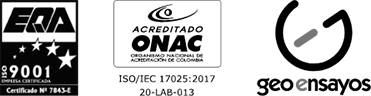
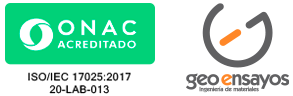
actualizacion certificados y slider

diff --git a/components/Icons.js b/components/Icons.js
@@ -211,3 +211,17 @@ export const IconSupervision = () => {
         </svg>
     )
 }
+
+export const OnacCertificate = () => {
+    return(
+        <svg xmlns="http://www.w3.org/2000/svg" viewBox="0 0 240.75 147.1">
+            <g id="a3297c2f-a7ae-4428-b331-d765763695de" data-name="Capa 2">
+                <g id="b01ddd35-47ef-4251-b64f-2eff42bcfe24" data-name="Capa 1">
+                    <path d="M0,8.78V90.94a8.78,8.78,0,0,0,8.78,8.77H232a8.78,8.78,0,0,0,8.78-8.78V8.78A8.78,8.78,0,0,0,232,0H8.78A8.78,8.78,0,0,0,0,8.78Z" fill="#26d07c" fill-rule="evenodd"/>
+                    <path d="M48.27,67.28c-18.88,4.63-28.51-9.79-23.76-24.47C31.07,22.54,61.74,18,73.65,38.34,55.77,22.38,25,43.74,48.27,67.28Zm-19.68-1.4C40.86,86.11,73,77.64,77,56.12c1.46-7.77-3-26.41-24.85-20.25C71.47,51.91,51.62,81.27,28.59,65.88Zm77.72-25.82a8,8,0,1,0-8,7.9,8,8,0,0,0,8-7.9m5.08,0a13.05,13.05,0,0,1-26.09,0,13.05,13.05,0,0,1,26.09,0M144.63,27.6V52.26H142.2L127.63,36.73V52.26h-4.94V27.6h2.42l14.53,15.53V27.6Zm19.2,15.49h7.39l-3.71-8.15ZM173,47.26H162.05l-2.18,5h-5.25L166.29,27.6h2.47l11.7,24.66h-5.25Zm34-2.65A7.75,7.75,0,0,1,192.91,40,7.75,7.75,0,0,1,207,35.39l3.86-3.28a13.14,13.14,0,0,0-10.13-4.72,12.59,12.59,0,1,0,0,25.18,13.11,13.11,0,0,0,10.13-4.68L207,44.61M87.05,73.45l.9-2.59h5L94,73.45h3.14l-5-12.21H89L84.08,73.45Zm1.67-4.64,1.4-3.9c0-.1.09-.31.16-.63s.14-.67.22-1.06c.07.41.14.76.2,1s.12.48.16.6l1.45,4Zm21-7a9.3,9.3,0,0,0-1.93-.64,9.71,9.71,0,0,0-2-.21,7.33,7.33,0,0,0-5.13,1.81,6.31,6.31,0,0,0,0,9.2,7.21,7.21,0,0,0,5.07,1.82,8.51,8.51,0,0,0,2-.24,8,8,0,0,0,1.85-.74l0-2.68a5.79,5.79,0,0,1-1.79,1.07,6.09,6.09,0,0,1-2.08.35,4.19,4.19,0,0,1-3.11-1.13,4.64,4.64,0,0,1,.09-6.19,4.57,4.57,0,0,1,3.29-1.17,5.37,5.37,0,0,1,1.89.33,5.9,5.9,0,0,1,1.72,1Zm9.33,6.1a3.17,3.17,0,0,0,2.07-1.05A3.08,3.08,0,0,0,122,64.7a3,3,0,0,0-1.18-2.6,6,6,0,0,0-3.53-.86h-4V73.45h2.77v-5.7l3.4,5.7h3.18Zm-3-4.66h.41a4.39,4.39,0,0,1,2.18.37,1.44,1.44,0,0,1,.58,1.28,1.32,1.32,0,0,1-.54,1.21,4.67,4.67,0,0,1-2.22.35h-.41ZM133,73.45V71.23H128.1V68.17H133V66H128.1V63.44H133v-2.2h-7.61V73.45Zm6.55,0h1a14.62,14.62,0,0,0,3.16-.26,6,6,0,0,0,2-.86,5.4,5.4,0,0,0,1.81-2.08,6.42,6.42,0,0,0,.62-2.88,6.35,6.35,0,0,0-.61-2.85,5.27,5.27,0,0,0-1.78-2.09,5.93,5.93,0,0,0-2.11-.91,14.87,14.87,0,0,0-3.28-.28h-3.53V73.45Zm0-10H141a4.48,4.48,0,0,1,3.17.94,3.9,3.9,0,0,1,1,3,3.92,3.92,0,0,1-1,3,4.53,4.53,0,0,1-3.17.93H139.5Zm14.74,10V61.24h-2.77V73.45Zm12-10V61.24h-9.1v2.22h3.16v10h2.78v-10Zm3.32,10,.9-2.59h5l1.05,2.59h3.14l-5-12.21h-3.16L166.6,73.45Zm1.68-4.64,1.39-3.9a5.26,5.26,0,0,0,.16-.63c.07-.31.15-.67.22-1.06.07.41.14.76.21,1s.11.48.15.6l1.45,4Zm13.61,4.64h1a14.62,14.62,0,0,0,3.16-.26,6.12,6.12,0,0,0,2-.86,5.4,5.4,0,0,0,1.81-2.08,7,7,0,0,0,0-5.73A5.35,5.35,0,0,0,191,62.43a6,6,0,0,0-2.11-.91,15,15,0,0,0-3.29-.28H182.1V73.45Zm0-10h1.54a4.48,4.48,0,0,1,3.17.94,3.9,3.9,0,0,1,1,3,3.92,3.92,0,0,1-1,3,4.53,4.53,0,0,1-3.17.93h-1.54Zm24.66,1.44a6.24,6.24,0,0,0-1.5-2.06,7.18,7.18,0,0,0-2.25-1.38,7.36,7.36,0,0,0-5.28,0,7.07,7.07,0,0,0-2.25,1.38,6.27,6.27,0,0,0-1.51,2.06,6.19,6.19,0,0,0,.14,5.22,6.3,6.3,0,0,0,1.87,2.19,7.51,7.51,0,0,0,2.08,1.09,7.37,7.37,0,0,0,2.32.38A7.35,7.35,0,0,0,208,71.9a6,6,0,0,0,1.49-2.05,6.2,6.2,0,0,0,0-4.95Zm-9.31,5.4a4.31,4.31,0,0,1,0-5.85,4.17,4.17,0,0,1,5.81,0,4.3,4.3,0,0,1,0,5.84,4.26,4.26,0,0,1-5.83,0Z" fill="#fff" fill-rule="evenodd"/>
+                    <path d="M39.49,126.5H37.87V114.33h1.62Zm8,.21a5.57,5.57,0,0,1-3.85-1.16,4,4,0,0,1-1.34-3h1.55a2.48,2.48,0,0,0,1.14,2,4.32,4.32,0,0,0,2.43.65,3.85,3.85,0,0,0,2.18-.55,1.74,1.74,0,0,0,.83-1.51,1.56,1.56,0,0,0-.86-1.47,12.7,12.7,0,0,0-2.94-.9,6.72,6.72,0,0,1-3-1.23,2.65,2.65,0,0,1-.91-2.1A3,3,0,0,1,44,115.07a4.86,4.86,0,0,1,3.14-.95,5.34,5.34,0,0,1,3.32,1,3.36,3.36,0,0,1,1.33,2.69H50.18c-.17-1.47-1.17-2.2-3-2.2a3.64,3.64,0,0,0-2.08.5,1.58,1.58,0,0,0-.74,1.35,1.25,1.25,0,0,0,.6,1.14,7.32,7.32,0,0,0,2.21.74,20.18,20.18,0,0,1,2.58.71,4,4,0,0,1,1.63,1.08,2.77,2.77,0,0,1,.69,2,3.26,3.26,0,0,1-1.25,2.61A5,5,0,0,1,47.53,126.71Zm12.56-12.59a5.48,5.48,0,0,1,4.18,1.73,7.21,7.21,0,0,1,0,9.13,5.93,5.93,0,0,1-8.38,0,7.19,7.19,0,0,1,0-9.12A5.53,5.53,0,0,1,60.09,114.12Zm0,11.21a3.84,3.84,0,0,0,3-1.3,6.23,6.23,0,0,0,0-7.24,3.8,3.8,0,0,0-3-1.29,3.87,3.87,0,0,0-3,1.29,6.16,6.16,0,0,0,0,7.24A3.88,3.88,0,0,0,60.07,125.33Zm11.88-11L68.43,126.5h-1.2l3.52-12.17Zm3.72,12.17H74.05V114.33h1.62Zm12.52,0H79.12V114.33h8.79v1.44H80.73v3.72h6.72v1.45H80.73v4.11h7.46Zm7.91.21A5.3,5.3,0,0,1,92,125a7.63,7.63,0,0,1,0-9.19,5.3,5.3,0,0,1,4.12-1.7,5.42,5.42,0,0,1,3.38,1.07,3.94,3.94,0,0,1,1.57,2.82H99.39a2.48,2.48,0,0,0-1-1.83,3.69,3.69,0,0,0-2.27-.68,3.63,3.63,0,0,0-2.93,1.27,6.7,6.7,0,0,0,0,7.28,3.59,3.59,0,0,0,2.91,1.28,3.55,3.55,0,0,0,2.3-.7,2.72,2.72,0,0,0,1-2h1.66a4.12,4.12,0,0,1-1.53,3A5.35,5.35,0,0,1,96.1,126.71Zm17.8-.21h-1.56v-9.57a5.38,5.38,0,0,1-2.93.63v-1.23c1.91,0,3-.74,3.29-2.21h1.2Zm12.31-11.07-4.42,11.07H120l4.54-10.73h-6.24v-1.44h7.87Zm6-1.31q4,0,4,6.31c0,4.18-1.32,6.28-4,6.28s-4-2.1-4-6.28S129.6,114.12,132.24,114.12Zm0,11.36a1.9,1.9,0,0,0,1.76-1.12,9.21,9.21,0,0,0,.59-3.93,9.37,9.37,0,0,0-.59-4,1.93,1.93,0,0,0-3.5,0,9.18,9.18,0,0,0-.6,4,9,9,0,0,0,.6,3.93A1.88,1.88,0,0,0,132.24,125.48Zm13.86,1H138a3.75,3.75,0,0,1,.69-2.13,13.16,13.16,0,0,1,2.53-2.49,16.88,16.88,0,0,0,2.52-2.37,3.2,3.2,0,0,0,.68-2,2.15,2.15,0,0,0-.58-1.58,2.2,2.2,0,0,0-1.64-.58,2.24,2.24,0,0,0-1.56.58,2.47,2.47,0,0,0-.73,1.71h-1.62a3.75,3.75,0,0,1,1.19-2.56,3.93,3.93,0,0,1,2.76-1,3.82,3.82,0,0,1,2.8,1,3.28,3.28,0,0,1,1,2.44,3.91,3.91,0,0,1-.73,2.35,18.64,18.64,0,0,1-2.9,2.82c-1.45,1.21-2.19,2-2.21,2.34h5.87Zm4.16-7.35a3.44,3.44,0,0,1,2.25-.73,3.78,3.78,0,0,1,3.78,3.94,4.44,4.44,0,0,1-1.13,3.11,3.92,3.92,0,0,1-3,1.24,4.16,4.16,0,0,1-2.64-.86,3.54,3.54,0,0,1-1.27-2.55h1.62a2.4,2.4,0,0,0,.77,1.64,2.39,2.39,0,0,0,3.35-.32,3.2,3.2,0,0,0,.7-2.11,2.75,2.75,0,0,0-.71-2,2.47,2.47,0,0,0-1.85-.74,2.85,2.85,0,0,0-2.21,1h-1.23l.52-6.42h6.52v1.44h-5.19Zm10.47.24H159v-1.7h1.7Zm0,7.11H159v-1.7h1.7Zm10.64,0h-8.06a3.75,3.75,0,0,1,.69-2.13,13.35,13.35,0,0,1,2.52-2.49,15.92,15.92,0,0,0,2.52-2.37,3.15,3.15,0,0,0,.68-2,2.11,2.11,0,0,0-.58-1.58,2.2,2.2,0,0,0-1.63-.58,2.24,2.24,0,0,0-1.56.58,2.39,2.39,0,0,0-.73,1.71H163.6a3.74,3.74,0,0,1,1.18-2.56,3.93,3.93,0,0,1,2.76-1,3.84,3.84,0,0,1,2.81,1,3.31,3.31,0,0,1,1,2.44,3.91,3.91,0,0,1-.73,2.35,17.75,17.75,0,0,1-2.9,2.82c-1.45,1.21-2.18,2-2.21,2.34h5.88Zm6.14-12.38q4,0,4,6.31c0,4.18-1.32,6.28-4,6.28s-4-2.1-4-6.28S174.87,114.12,177.51,114.12Zm0,11.36a1.9,1.9,0,0,0,1.75-1.12,9.06,9.06,0,0,0,.59-3.93,9.21,9.21,0,0,0-.59-4,1.93,1.93,0,0,0-3.5,0,9.21,9.21,0,0,0-.59,4,9.06,9.06,0,0,0,.59,3.93A1.89,1.89,0,0,0,177.51,125.48Zm11.65,1H187.6v-9.57a5.4,5.4,0,0,1-2.93.63v-1.23c1.9,0,3-.74,3.28-2.21h1.21Zm12.31-11.07-4.42,11.07H195.3l4.54-10.73h-6.25v-1.44h7.88ZM80,146.9H72a3.75,3.75,0,0,1,.69-2.13,13.16,13.16,0,0,1,2.53-2.49,16.88,16.88,0,0,0,2.52-2.37,3.22,3.22,0,0,0,.68-2,2.11,2.11,0,0,0-.58-1.58,2.5,2.5,0,0,0-3.2,0,2.47,2.47,0,0,0-.73,1.71H72.27a3.75,3.75,0,0,1,1.19-2.56,3.93,3.93,0,0,1,2.76-1,3.82,3.82,0,0,1,2.8,1,3.28,3.28,0,0,1,1,2.44,3.91,3.91,0,0,1-.73,2.35,18.64,18.64,0,0,1-2.9,2.82c-1.45,1.21-2.19,2-2.21,2.34H80Zm6.14-12.38q4,0,4,6.31t-4,6.27q-4,0-4-6.27T86.18,134.52Zm0,11.36a1.89,1.89,0,0,0,1.75-1.12,9,9,0,0,0,.6-3.93,9.18,9.18,0,0,0-.6-4,1.92,1.92,0,0,0-3.49,0,9.18,9.18,0,0,0-.6,4,9,9,0,0,0,.6,3.93A1.88,1.88,0,0,0,86.18,145.88Zm10.39-2.63H92v-1.51h4.57Zm10,3.65H99V134.73h1.61v10.72h5.92Zm12.47,0H117.2l-1.41-3.7h-5.1l-1.35,3.7h-1.7l4.68-12.17h1.73Zm-3.71-5-2.14-5.65-2,5.65ZM130,143.36a3.11,3.11,0,0,1-1.16,2.62,5.36,5.36,0,0,1-3.38.92H120.9V134.73h4.34a5,5,0,0,1,3,.83,2.68,2.68,0,0,1,1.11,2.27,2.74,2.74,0,0,1-1.75,2.61,3,3,0,0,1,1.77,1.1A3,3,0,0,1,130,143.36Zm-7.49-3.53h2.71a3.62,3.62,0,0,0,2-.43,1.61,1.61,0,0,0,.63-1.43,1.58,1.58,0,0,0-.61-1.34,3.69,3.69,0,0,0-2.14-.46h-2.56Zm0,5.62h2.94c1.92,0,2.88-.69,2.88-2.09a1.88,1.88,0,0,0-.66-1.59,4.31,4.31,0,0,0-2.43-.5h-2.73Zm14-2.2H132v-1.51h4.57Zm5.81-8.73q4,0,4,6.31t-4,6.27q-4,0-4-6.27T142.35,134.52Zm0,11.36a1.9,1.9,0,0,0,1.76-1.12,9.21,9.21,0,0,0,.59-3.93,9.37,9.37,0,0,0-.59-4,1.93,1.93,0,0,0-3.5,0,9.18,9.18,0,0,0-.6,4,9,9,0,0,0,.6,3.93A1.88,1.88,0,0,0,142.35,145.88Zm11.65,1h-1.56v-9.57a5.36,5.36,0,0,1-2.93.63v-1.23c1.91,0,3-.74,3.29-2.21H154Zm10-6.68a3,3,0,0,1,1.71,1.12,3.31,3.31,0,0,1,.6,2,3.54,3.54,0,0,1-1.15,2.74,4.54,4.54,0,0,1-5.66.12,3.38,3.38,0,0,1-1.16-2.49H160a2.21,2.21,0,0,0,.61,1.55,2.57,2.57,0,0,0,3.48-.06,2.56,2.56,0,0,0,.65-1.82,2.27,2.27,0,0,0-.67-1.77,2.84,2.84,0,0,0-2-.62h-.6v-1.22h.35c1.52,0,2.28-.69,2.28-2.09a2,2,0,0,0-4,0h-1.61a3.36,3.36,0,0,1,1.18-2.35,3.83,3.83,0,0,1,2.48-.81,3.7,3.7,0,0,1,2.59.89,2.92,2.92,0,0,1,1,2.27,2.84,2.84,0,0,1-.42,1.48A2.72,2.72,0,0,1,164,140.22Z"/>
+                </g>
+            </g>
+        </svg>
+    )
+}

diff --git a/pages/index.js b/pages/index.js
@@ -1,4 +1,5 @@
 import Image from 'next/image'
+import { Fade } from 'react-slideshow-image';
 
 import SEO from '../components/SEO'
 import BTN from '../components/BotonComponent'
@@ -6,6 +7,7 @@ import {LogoWhite} from '../components/Icons'
 import Certificaciones from '../components/Certificaciones'
 
 import ContactPanel from '../components/ContactPanel'
+import HomeImageSlider from '../components/HomeImageSlider';
 
 export default function Home() {
     
@@ -35,18 +37,11 @@ export default function Home() {
                 <div className="banner-text-container banner-home-text-container">
                     <div className="banner-home-text-inner">
                         <div className="banner-home-image">
-                            <Image 
-                                src="/images/inicio-cabecera-imagen.jpg"
-                                alt="Geoensayos, laboratorio de ensayos geológicos"
-                                height={ 644 }
-                                width={ 912 }
-                                className="object-fit-cover"
-                                priority
-                            />
+                        <HomeImageSlider />
                         </div>
                         <div className="banner-home-text">
                             <h1 className="banner-home-title">Ingeniería de materiales</h1>
-                            <p className="banner-home-description">Somos una fábrica de ensayos para el sector construcción, altamente productiva, confiable y eficaz. “En GEO ENSAYOS SAS contamos con acreditación ONAC, vigente a la fecha, con código de acreditación 20-LAB-013, bajo la norma ISO/IEC 17025:2017</p>
+                            <p className="banner-home-description">En GEO ENSAYOS SAS contamos con acreditación ONAC, vigente a la fecha, con código de acreditación 20-LAB-013, bajo la norma ISO/IEC 17025:2017</p>
                             <ContactPanel />
                         </div>
                     </div>

diff --git a/pages/nosotros.js b/pages/nosotros.js
@@ -51,8 +51,7 @@ const Nosotros = () => {
                     </div>
                     <div className="nosotros-main-text">
                         <p>Somos especialista en ingeniería de materiales  y estamos enfocados en el procesamiento de concretos, suelos, agregados y mezclas asfálticas, con valor agregado técnico.</p>
-                        <p>El laboratorio cuenta con <Link href="./documentos/acreditacion-onac-2023.pdf" target="_blank">acreditación vigente por parte del Organismo Nacional de Acreditación (ONAC)</Link> bajo la norma ISO/IEC 17025:2017, requisitos generales para la competencia de los laboratorios de ensayo y calibración</p>
-                        <p>Todos nuestros procesos son soportados en la normatividad vigente gracias a que está certificado en la norma NTC-ISO-9001 y acreditado por la ONAC bajo la norma ISO/IEC 17025:2017.</p>
+                        <p>El laboratorio cuenta con <Link href="./documentos/acreditacion-onac-2023.pdf" target="_blank">acreditación</Link> por parte del Organismo Nacional de Acreditación (ONAC), vigente a la fecha, con código de acreditación 20-LAB-013, bajo la norma ISO/IEC 17025:2017.</p>
                         <Certificaciones />
                     </div>
                 </div>

diff --git a/components/Footer.js b/components/Footer.js
@@ -12,7 +12,6 @@ const Footer = () => {
                     <p>http://www.geoensayos.com <br />
                     Todos los derechos reservados { new Date().getFullYear() }</p>
                     <p><strong>Celular:</strong> (+57) 317 575 4994 <br />
-                    <strong>Teléfono:</strong> (+57) 1 - 320 5020 <br />
                     <strong>Dirección:</strong> Calle 73 No. 69P-16. <br />
                     Bogotá D.C. Colombia</p>
                 </div>
@@ -63,14 +62,6 @@ const Footer = () => {
                                 href="/quejas-reclamos"
                             >
                                 Quejas y reclamos
-                            </Link>
-                        </li>
-                        <li>
-                            <Link
-                                href="./documentos/certificado-iso-9001.pdf"
-                                target="_blank"
-                            >
-                                Certificado ISO 9001
                             </Link>
                         </li>
                         <li>

diff --git a/components/HomeImageSlider.js b/components/HomeImageSlider.js
@@ -1,0 +1,34 @@
+import { Fade } from 'react-slideshow-image'
+import 'react-slideshow-image/dist/styles.css'
+
+const images = [
+    'inicio-cabecera-imagen.jpg',
+    'inicio-corte-material.jpg',
+    'inicio-medicion-cilindro-concreto.jpg',
+    'inicio-resistencia-material.jpg',
+    'inicio-prueba-asfalto.jpg'
+]
+
+const properties = {
+    duration: 2000,
+    prevArrow: <div></div>,
+    nextArrow: <div></div>
+}
+
+const HomeImageSlider = () => {
+    return(
+        <div className="home-slide-container">
+            <Fade {...properties}>
+            {
+                images.map((each, index) => (
+                    <div className="home-slide-image">
+                        <img key={index} style={{width: "100%"}} src={`/images/${each}`} />
+                    </div>
+                ))
+            }
+            </Fade>
+      </div>
+    )
+}
+
+export default HomeImageSlider

diff --git a/components/Certificaciones.js b/components/Certificaciones.js
@@ -1,15 +1,15 @@
-import Image from 'next/image'
+import {OnacCertificate, LogoHeader} from './Icons'
 
 const Certificaciones = () => {
 
     return(
         <div className="certificados-wrap">
-            <Image 
-                alt='Certificados ISO 9000 y Onac'
-                src='/images/certificados.png'
-                height={96}
-                width={371}
-            />
+            <div className="certificados-item">
+                <OnacCertificate />
+            </div>
+            <div className="certificados-item">
+                <LogoHeader />
+            </div>
         </div>
     )
 

diff --git a/styles/components/_certificaciones.scss b/styles/components/_certificaciones.scss
@@ -1,12 +1,21 @@
 .certificados-wrap{
+    display: flex;
+    flex-flow: row nowrap;
+    column-gap: 2rem;
+
     @media ( max-width: 600px ) and ( orientation: portrait ){
         margin: auto;
         padding: .5rem 0;
         width: 100%;
 
-        img{
-            height: auto;
-            width: 100%;
-        }
+        
+    }
+}
+.certificados-item{
+    height: 80px;
+
+    svg{
+        height: 100%;
+        width: auto;
     }
 }

diff --git a/components/ContactPanel.js b/components/ContactPanel.js
@@ -6,7 +6,6 @@ const ContactPanel = () => {
         <div className="contact-data-wrap">
             <h3>Contactános</h3>
             <p><span className="icon"><IconPhone /></span> (+57) 317 575 4994</p>
-            <p><span className="icon"><IconTelephone /></span>  (+57) 1 - 320 5020</p>
         </div>
     )
 

diff --git a/styles/globals.scss b/styles/globals.scss
@@ -12,9 +12,10 @@
 
 @forward './basics/botones';
 
-/* ======================================= Panel de contacto */
+/* ======================================= Componentes */
 
 @forward './components/contact_panel';
+@forward './components/sliders';
 
 /* ======================================= Clases Generales */
 

diff --git a/styles/components/_sliders.scss b/styles/components/_sliders.scss
@@ -1,0 +1,8 @@
+// ============================================== Home Slider
+.home-slide-container{
+    height: 100%;
+    overflow: hidden;
+}
+.home-slide-image{
+    line-height: 0;
+}
